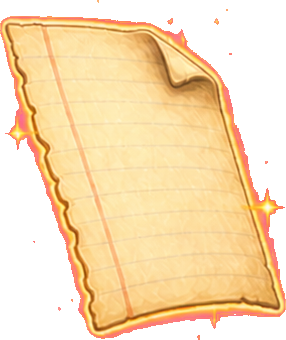
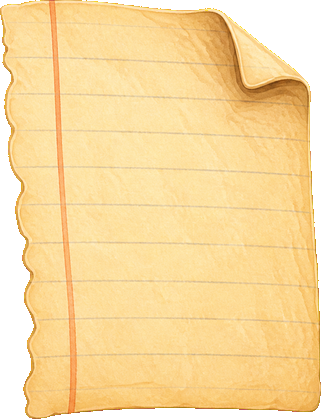
R5-W2 · J1-C — AQ7 und AQ8 landen: 17 Stems, drei Messungen und ein vorbestehender Zählfehler (#278)
* R5-W2 · J1-C · AQ7 und AQ8 landen — und der Importer glaubt dem Lieferschein nicht

17 Stems aus zwei Lieferungen. Ein Lieferschein ist eine Behauptung, und ein
Importer ist die letzte Stelle, an der sie noch billig zu prüfen ist — das
ABGELEHNTE Vorgängerblatt meldete auch »Format PASS«. Also drei Messungen:

· DAS DUPLIKAT. tip_treasure Zelle 0 und regelseite_a melden identische
  Kennzahlen. Nachgemessen: sie sind PIXELGLEICH (maximale Kanalabweichung 0).
  Die Seite wird deshalb EINMAL importiert, vom eigenen Blatt — und der
  Importer BEHAUPTET die Gleichheit, statt sie anzunehmen. Laufen die beiden
  je auseinander, ist das eine echte Tatsache über die Kunst und muss den
  Import anhalten, nicht als »das zuletzt geschriebene Blatt gewinnt«
  durchrutschen.

· DAS SCHULHAUS MUSS DECKUNGSGLEICH BLEIBEN. Zelle 0 (Farbe) und Zelle 1
  (entfärbt) werden von der Engine überblendet — eine um zwei Pixel
  verschobene Silhouette liest sich als springendes Haus, nicht als
  weichende Farbe. Sprite-Modus beschneidet sonst jede Zelle auf IHREN
  eigenen Inhalt; die beiden teilen sich jetzt EINEN Beschnitt, und die
  Masken werden verglichen. Ergebnis: sie unterscheiden sich in GENAU EINEM
  Pixel von 162.360. Der Lieferschein sagt »identical silhouette mask PASS« —
  gemessen ist er um eins daneben. Harmlos, und es gehört gesehen: die Zeile
  meldet jetzt die ANZAHL, nicht einen Prozentsatz (1 Pixel rundet auf
[…]

diff --git a/packages/game-paint/src/cards/PaintedIcons.test.ts b/packages/game-paint/src/cards/PaintedIcons.test.ts
@@ -14,6 +14,7 @@ import { describe, expect, it } from "vitest";
 import fs from "node:fs";
 import path from "node:path";
 import { PAINTED_ICON_NAMES } from "./PaintedIcons.tsx";
+import { PAINTED_ICON_NAMES as MANIFEST_ICON_NAMES } from "../artManifest.ts";
 
 /** The exact glyphs this packet removed — named, so the check can never be
  *  accused of banning arrows („↑", „←", „↻" are the game's own key cues and
@@ -54,5 +55,21 @@ describe("the ceremonies carry painted pictures, never platform emoji", () => {
       expect(PAINTED_ICON_NAMES).toContain(m[1]);
       expect(PAINTED_ICON_NAMES).toContain(m[2]);
     }
+  });
+});
+
+/* ── R5-W2 · J1-C · THE ICON NAMES EXIST TWICE, AND MUST STAY ONE SET ─────────
+   `artScope.domArtStems` declares a painted stem per icon so the art audit stops
+   reporting live art as »loaded by nothing«. It cannot import this file — the
+   audit runs as a plain node script that only strips types, and this file has
+   JSX in it — so the names are copied into artManifest.ts.
+   A copy that nothing checks is a copy that rots, and the failure would be
+   silent in the safe direction: a new icon would render fine and quietly
+   re-enter the dead-art count. Proven in BOTH directions. */
+describe("R5-W2 · J1-C · the painted-icon names are one set, held in two files", () => {
+  it("every icon has a declared stem, and every declared stem has an icon", () => {
+    const inIcons = [...PAINTED_ICON_NAMES].sort();
+    const inManifest = [...MANIFEST_ICON_NAMES].sort();
+    expect(inManifest, "artManifest.PAINTED_ICON_NAMES has drifted from the icon set").toEqual(inIcons);
   });
 });

diff --git a/packages/game-paint/src/artScope.ts b/packages/game-paint/src/artScope.ts
@@ -26,7 +26,7 @@
 // loader loads, and scripts/check-paint-art.mjs asserts floor ⊆ ceiling. A
 // stem the gate insists on that the loader would skip fails the build.
 
-import { GLYPH_STEMS, HERO2_STEMS, HERO_STEMS, entitySkinStems, guardianSkinStems } from "./artManifest.ts";
+import { GLYPH_STEMS, HERO2_STEMS, HERO_STEMS, PAINTED_ICON_NAMES, entitySkinStems, guardianSkinStems } from "./artManifest.ts";
 import { COMPOSITION, compositionStems } from "./composition.ts";
 import { CHALK_PROJECTILE_STEMS } from "./entities.ts";
 
@@ -114,6 +114,16 @@ export const domArtStems = (level: ScopeLevel): Set<string> => {
   for (const ph of allScopePhases(level)) {
     for (const e of ph.entities) if (e.role === "tip") out.add(`${e.skin}_open`);
   }
+  // R5-W2 · J1-C: THE PAINTED ICONS. `PaintedIcon` reads `hud_<name>` straight
+  // out of the art map and draws it instead of its code-drawn glyph whenever the
+  // stem exists (PaintedIcons.tsx). Eight of those stems have been on disk for
+  // packets and none of them was declared here — so every one of them has been
+  // sitting in AUDIT B's »loaded by nothing« list while it was, in fact, being
+  // rendered on every card. An audit that miscounts in the SAFE direction is
+  // still an audit that miscounts, and the count is what tells us when art has
+  // genuinely gone dead. Declared by NAME, from the icon set itself, so a new
+  // icon cannot be forgotten here.
+  for (const n of PAINTED_ICON_NAMES) out.add(`hud_${n}`);
   for (const s of ALWAYS_STEMS) out.add(s);
   return out;
 };

diff --git a/packages/game-paint/src/artManifest.ts b/packages/game-paint/src/artManifest.ts
@@ -71,3 +71,20 @@ export const HERO_STEMS = [
   "satchel",
   "rotor_a", "rotor_b", "rotor_c",
 ];
+
+/** R5-W2 · J1-C · THE PAINTED ICON STEMS.
+ *
+ *  `PaintedIcon` (cards/PaintedIcons.tsx) draws its code-built glyph unless a
+ *  painted stem named `hud_<name>` exists in the art map, in which case it draws
+ *  that instead. Those stems are therefore read by the DOM on every card — and
+ *  none of them was ever declared to `artScope.domArtStems`, so the art audit
+ *  has been reporting live art as »loaded by nothing«.
+ *
+ *  The names live HERE and not next to the icons because the audit runs in a
+ *  plain node script: importing the .tsx would drag JSX into a file that only
+ *  strips types. `PaintedIcons.test.ts` asserts this list and the icon set are
+ *  the same set, in both directions — so the copy cannot rot silently. */
+export const PAINTED_ICON_NAMES: readonly string[] = [
+  "spark", "cage", "wisp", "rule", "book", "palette", "door",
+  "knot", "inkwell", "blot", "brush", "slate", "rosette",
+];
